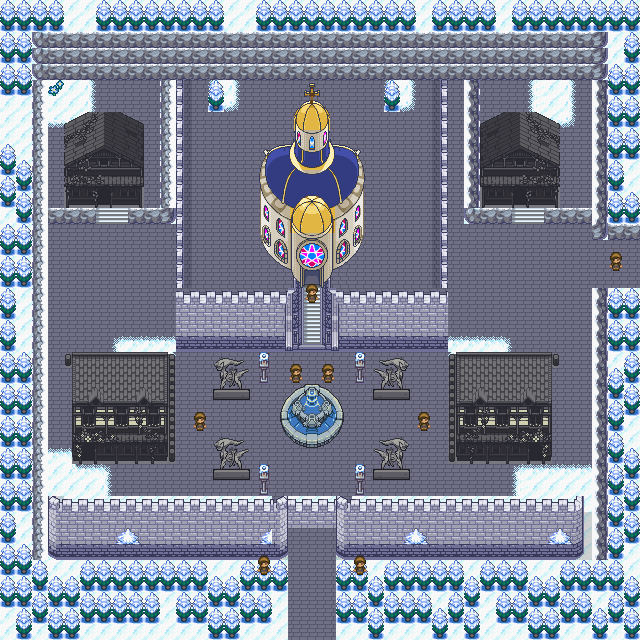
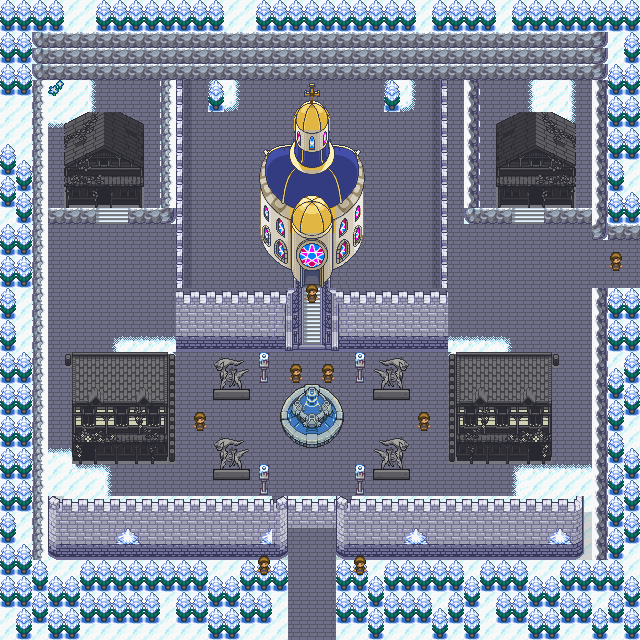
Templar Citadel v3: the upper-right ledge house centred
User 2026-11-22: this house needs to be centred. The upper-right house stood at
x 30-34 on a ledge whose floor is x 30-36. It now stands at x 31-35, the mirror of
the upper-left one (x 4-8 on 3-9), its door over its stair.

Claude-Session: https://claude.ai/code/session_01FHXnfqnedTHLf5QFbB3MCU

Changed region(s): [[0.7812, 0.1562, 0.9062, 0.3438], [0.75, 0.1875, 0.7812, 0.3438]]

diff --git a/tools/art/templar_hq/citadel_mock.py b/tools/art/templar_hq/citadel_mock.py
@@ -144,7 +144,7 @@ def compose():
     M.place([row[::-1] for row in [[None if c is None else (c[0][:, ::-1], c[1][:, ::-1]) for c in r] for r in tav]], 28, 22, 'house', check=False)
     small = chalet(11, 14, 5, 6)
     M.place(small, 4, 7, 'house', check=False)
-    M.place([row[::-1] for row in [[None if c is None else (c[0][:, ::-1], c[1][:, ::-1]) for c in r] for r in small]], 30, 7, 'house', check=False)
+    M.place([row[::-1] for row in [[None if c is None else (c[0][:, ::-1], c[1][:, ::-1]) for c in r] for r in small]], 31, 7, 'house', check=False)   # (centred on its ledge, x 30-36: the mirror of the west one at 4 in 3-9)
     # the two ledges they stand on (west x 3-10, east x 29-36), a stair down from each toward the square
     for (x0, x1, sx, side) in ((3, 10, 6, 0), (29, 36, 32, 1)):
         for x in range(x0, x1 + 1): M.ground(x, 13, ef(0x106), 'cliff')
